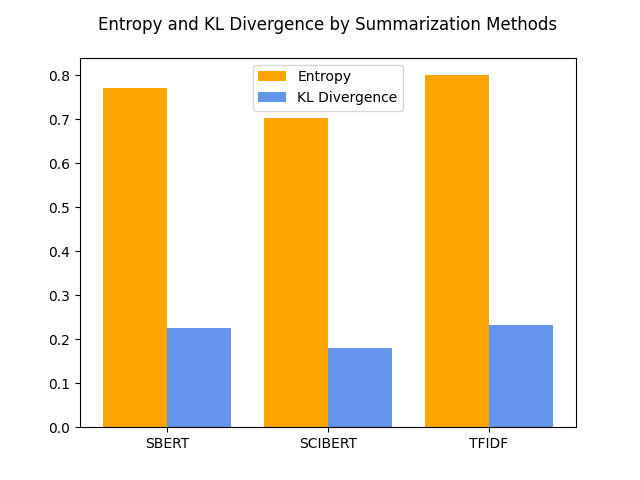
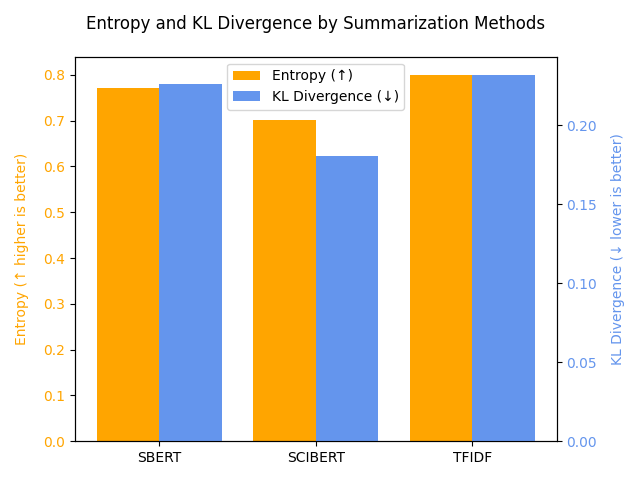
Draw the KL bars on a new y-axis (to better display the differences in its values for each method)

Changed region(s): [[0.0, 0.0938, 0.9688, 0.9688], [0.125, 0.0312, 0.875, 0.0625]]

diff --git a/visualize.py b/visualize.py
@@ -182,18 +182,30 @@ def combined_metrics_plot(df):
     x = np.arange(len(methods))  # We divide a given interval equally between the number of methods. [0,1,2]
     width = 0.40  # how wide each bar is
 
+
+    # first y-axis for entropy (left side)
+    ax.set_ylabel("Entropy (↑ higher is better)", color="orange", labelpad=10)
+    ax.tick_params(axis='y', labelcolor="orange")
+
+    # create second y-axis for KL divergence (right side)
+    ax2 = ax.twinx()
+    ax2.set_ylabel("KL Divergence (↓ lower is better)", color="cornflowerblue", labelpad=10)
+    ax2.tick_params(axis='y', labelcolor="cornflowerblue")
+
     # we need both bars for each method
-    bars = [
-        ax.bar( x = x - width/2, height = entropy_values, width = width, color = "orange" ,label="Entropy"), # entropy bars — shifted LEFT of center
-        ax.bar( x = x + width/2, height = kl_values, width = width, color = "cornflowerblue" ,label="KL Divergence") # kl bars — shifted RIGHT of center
-    ]
+    bar1= ax.bar( x = x - width/2, height = entropy_values, width = width, color = "orange" ,label="Entropy"), # entropy bars — shifted LEFT of center
+    bar2= ax2.bar( x = x + width/2, height = kl_values, width = width, color = "cornflowerblue" ,label="KL Divergence") # kl bars — shifted RIGHT of center
 
     ax.set_title("Entropy and KL Divergence by Summarization Methods", pad=20)
     ax.set_xticks(x)  # where to put tick marks
     ax.set_xticklabels(methods)  # replace the numeric value with actual names
-    ax.legend()  # legend box
+
+    lines = [bar1, bar2]
+    labels = ["Entropy (↑)", "KL Divergence (↓)"]
+    ax.legend(lines, labels, loc="upper center")  # legend box
 
     path = os.path.join(OUTPUT_DIR, "combined_metrics.png")
+    plt.tight_layout()
     plt.savefig(path)
     plt.close()
     print(f"Saved: {path}")
